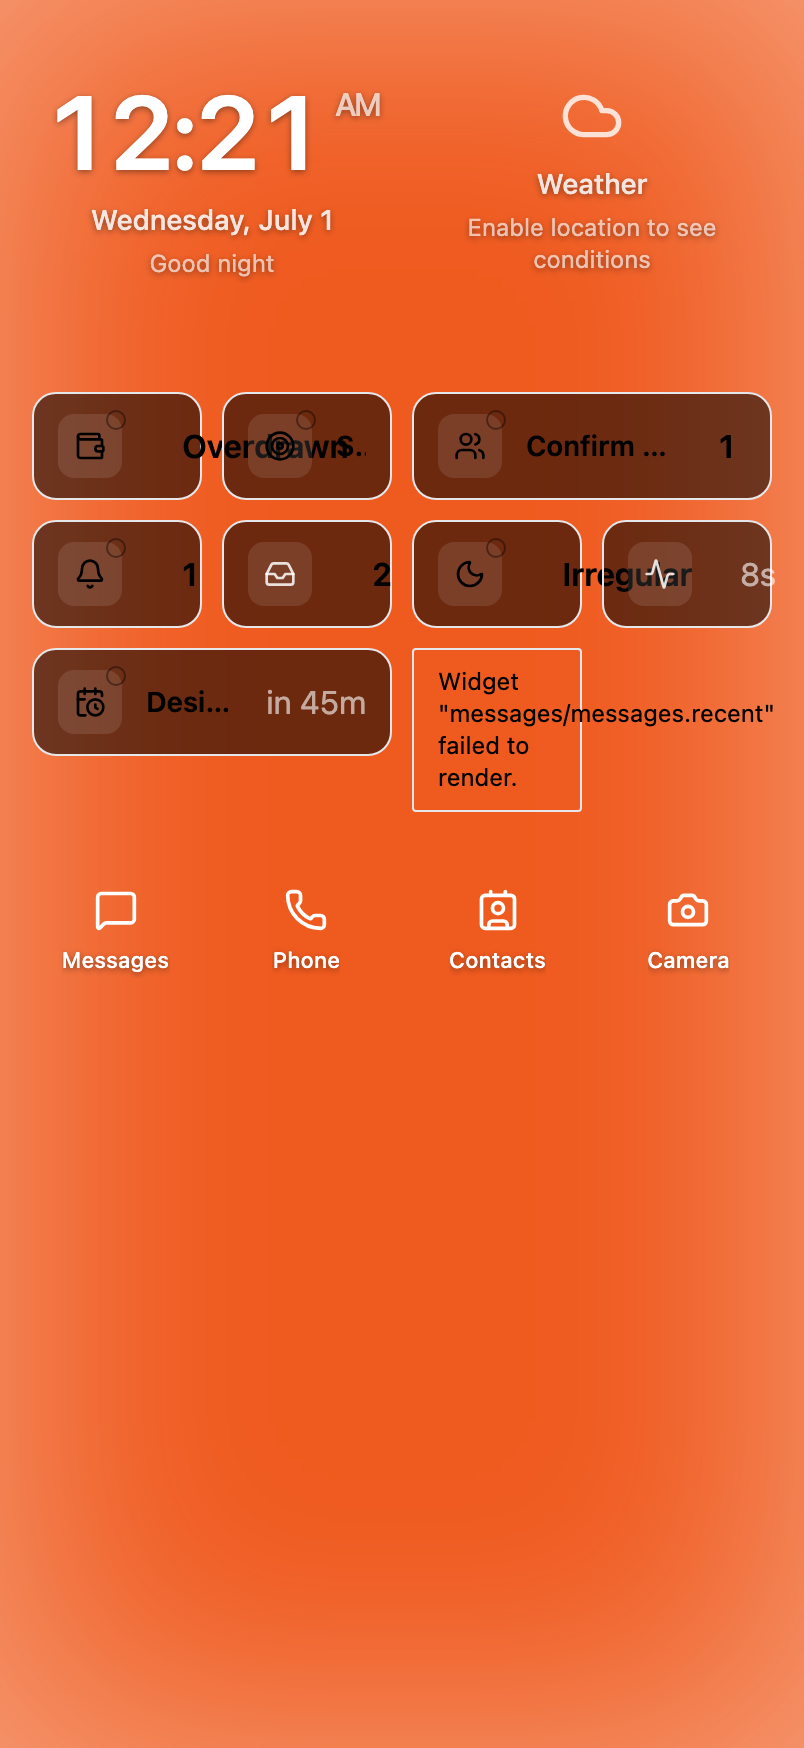
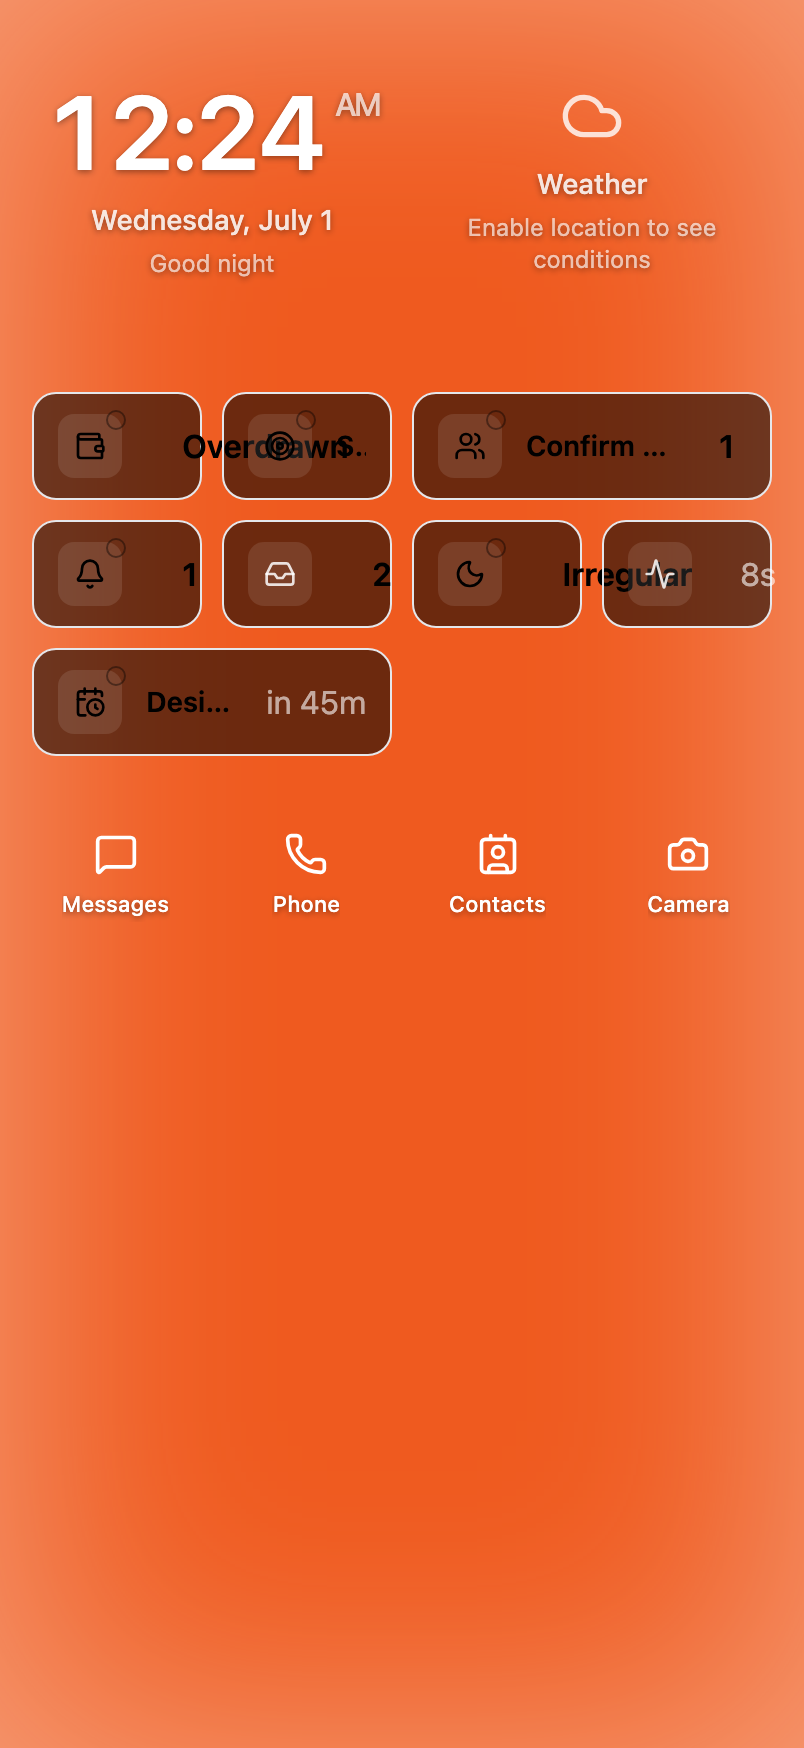
test(ui): stub messages client + assert no home widget error boundary
Seeding a message event surfaced the always-visible messages.recent card, which
threw (no listConversations/getConversationMessages stub) into an ErrorBoundary
fallback the page-error guard can't see. Stub both (empty → self-hide) and add a
widget-error-boundary assertion so this class of failure fails the e2e.

diff --git a/packages/ui/src/components/shell/__e2e__/home-screen-fixture.api-stub.ts b/packages/ui/src/components/shell/__e2e__/home-screen-fixture.api-stub.ts
@@ -46,4 +46,9 @@ export const client = {
   listConnectorAccounts: async () => ({
     accounts: [{ id: "google-owner", provider: "google", status: "connected" }],
   }),
+  // MessagesWidget cold-seeds from the conversation list then fetches each
+  // candidate's messages; empty results make it self-hide cleanly instead of
+  // throwing (which would surface a "Widget failed to render" fallback).
+  listConversations: async () => ({ conversations: [] }),
+  getConversationMessages: async () => ({ messages: [] }),
 };